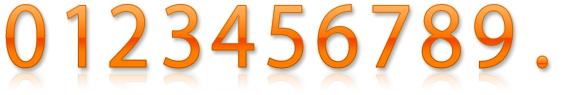
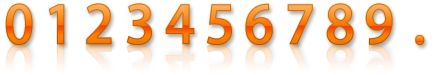
사이즈 조절

diff --git a/css/style.css b/css/style.css
@@ -29,10 +29,10 @@ body {background:url("../images/bg_pattern.png");}
 #surgestBox ul#ulSurgest li:hover {background:#e4e4e4}
 #surgestBox div.border {background:url("../images/bg_searchBox1.png") no-repeat; width:306px; height:15px; position:absolute; bottom:-15px}
 
-#leftGage {position:absolute; width:43px; height:192px; background:url("../images/bg_gage0.png") no-repeat; bottom:359px; left:37px; height:0px}
+#leftGage {position:absolute; width:43px; height:192px; background:url("../images/bg_gage0.png") no-repeat; bottom:351px; left:39px; height:0px}
 #leftGage div {background:url("../images/ico_arrow0.png") no-repeat; width:11px; height:15px; position:absolute; right:15px; top:-5px}
-#leftGage div.cap {width:14px; height:11px; background:url(../images/bg_gage1Cap.png) no-repeat; top:-10px; left:0; display:none; opacity:0; filter:alpha(opacity=0)}
-#rightGage {position:absolute; width:43px; height:192px; background:url("../images/bg_gage0.png") no-repeat; bottom:328px; right:10px; height:0px}
+#leftGage div.cap {width:15px; height:11px; background:url(../images/bg_gage1Cap.png) no-repeat; top:-10px; left:0; display:none; opacity:0; filter:alpha(opacity=0)}
+#rightGage {position:absolute; width:43px; height:192px; background:url("../images/bg_gage0.png") no-repeat; bottom:321px; right:10px; height:0px}
 #rightGage div {background:url("../images/ico_arrow1.png") no-repeat; width:11px; height:15px; position:absolute; left:-13px; top:-5px}
 #rightGage div.cap {width:14px; height:11px; background:url(../images/bg_gage1Cap.png) no-repeat; top:-10px; left:0; display:none; opacity:0; filter:alpha(opacity=0)}
 #appeal {background:url("../images/img_sun0.png") no-repeat; width:243px; height:247px; position:absolute; top:177px; left:77px}
@@ -40,7 +40,8 @@ body {background:url("../images/bg_pattern.png");}
 #txtAppeal {font-size:20px; font-weight:bold; color:#3a3a3a; position:absolute; top:416px; left:143px}
 #txtAppeal span {color:#ff7000}
 #appealValue {position:absolute; top:254px; left:356px}
-#appealValue p {background:url("../images/number.png") no-repeat; width:50px; height:95px; float:left}
+#appealValue p {background:url("../images/number.png") no-repeat; width:40px; height:75px; float:left}
+#appealValue #aHun {}
 #appealValue #aTen {}
 #appealValue #aOne {}
 #appealValue #aText {background:none; font-size:24px; font-weight:bold; color:#f07901; width:auto; position:absolute; top:0; left:0; opacity:0}
@@ -48,11 +49,11 @@ body {background:url("../images/bg_pattern.png");}
 #txtPosition {font-size:20px; font-weight:bold; color:#3a3a3a; position:absolute; top:445px; left:685px}
 #txtPosition span {color:#d80a00}
 #positionValue {position:absolute; top:276px; right:82px}
-#positionValue p {background:url("../images/number.png") no-repeat; width:50px; height:95px; float:left}
+#positionValue p {background:url("../images/number.png") no-repeat; width:40px; height:75px; float:left}
 #positionValue #pHun {}
 #positionValue #pTen {}
 #positionValue #pOne {}
-#positionValue #pDot {background-position-x:-535px; width:16px}
+#positionValue #pDot {background-position-x:-415px; width:16px}
 #positionValue #pFir {}
 #positionValue #pSen {}
 #positionValue #pText {background:none; clear:both; font-size:24px; font-weight:bold; color:#f07901; text-align:center; width:100%}
